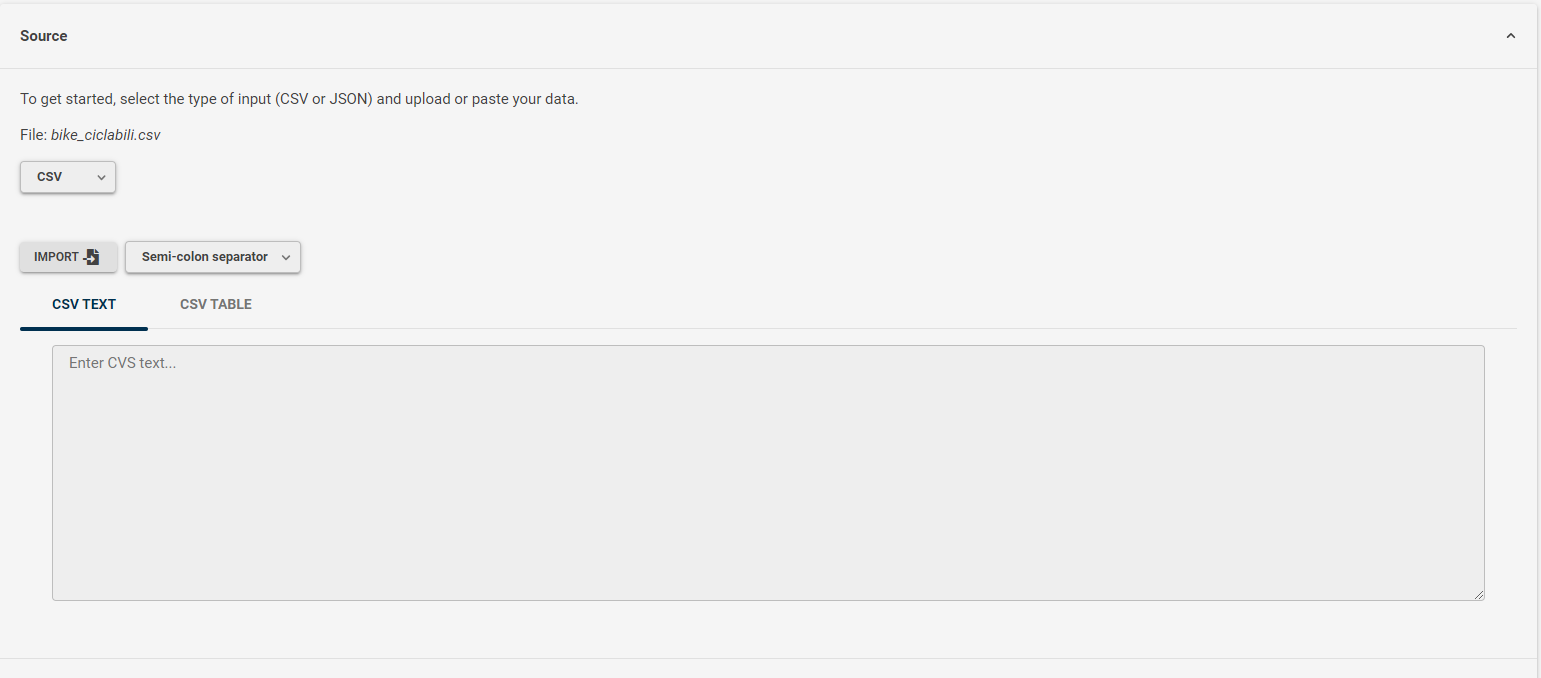
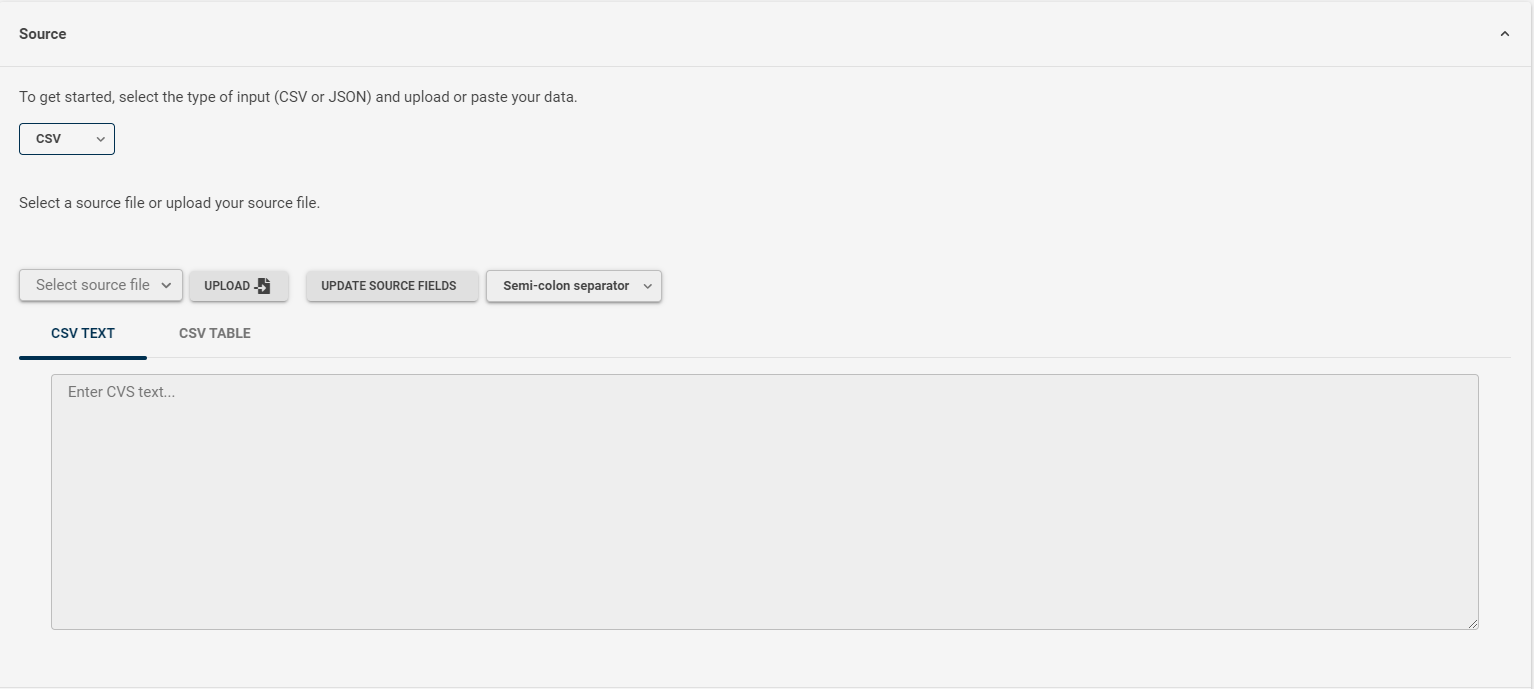
update documentation

diff --git a/frontend/src/app/model/appConfig.ts b/frontend/src/app/model/appConfig.ts
@@ -9,7 +9,7 @@ export interface AppConfig {
 
 export interface System {
   country: string;
-  sdkUrl: string;
+  //sdkUrl: string;
   checkConsentAtOperator: boolean;
   dmmGuiUrl: string;
   editorSchemaPath: string;

diff --git a/docs/usage.md b/docs/usage.md
@@ -7,15 +7,16 @@ The Data model mapper functionalities are explained in [Data model mapper Readme
 
 ## Service dashboard
 
-The section **Home** is where you can save or edit mapper settings.
+The section **Map editor** is where you can save or edit mapper settings.
 
-![](images/home.png)
+![](images/editor.png)
 
 It contains the following accordion 
 
 -   *Source*. Where you can set the source input
 -   *Mapper*. Where you can set the mapper options
 -   *Output*. Where you can see a preview of the mapped source
+-   *Config*. Where you can ser the transform config
 
 ## Source
 
@@ -23,7 +24,7 @@ In the **Source** accordion you can import a source file or edit it.
 
 ![](images/source-1.png)
 
-Firstly, select the inout type source
+Firstly, select the input type source
 
 ![](images/select-input-type.png)
 
@@ -31,8 +32,8 @@ For CSV input type, this it the source editor
 
 ![](images/empty-csv.png)
 
-You can either write your CSV data inside the textarea or import it by clicking the import button.
-If you want to import it, click **IMPORT** button and a dialog will appear
+You can either write your CSV data inside the textarea or import it by clicking the upload button.
+If you want to import it, click **UPLOAD** button and a dialog will appear
 
 ![](images/import.png)
 
@@ -100,11 +101,15 @@ Click on **Select path** and select the path where you want to start analyzing y
 
 ## Mapper
 
-In this section you can set the map record
+In this section you can set the output schema
 
-![](images/mapper.png)
+![](images/mapper_1.png)
 
-You can import a schema if you want set automatically the skeleton of the output. Click **IMPORT** and the steps are the same as mentioned before for source imput. Same if you want to set it manually, just click **Tree** and then select **View**
+and the mapper settings
+
+![](images/mapper_2.png)
+
+You can import a schema if you want set automatically the skeleton of the output. Click **UPLOAD** and the steps are the same as mentioned before for source imput. Same if you want to set it manually, just click **Tree** and then select **View**
 
 ![](images/map-options-2.png)
 
@@ -171,7 +176,7 @@ You can also import a schema from Data model mapper DB by clicking **Select Json
 
 or import the entire map record by clicking **IMPORT** on the top of the page
 
-![](images/home.png)
+![](images/editor.png)
 
 or by selecting it from the Data model mapper DB 
 
@@ -195,7 +200,7 @@ If you want to download map record, just click **EXPORT** button.
 
 If you want to save map record into Data model mapper Database , click **SAVE AS NEW**.
 
-![](images/home.png)
+![](images/editor_top.png)
 
 A save dialog will appear.
 
@@ -207,10 +212,11 @@ Chose a univoque Map ID and a name for the map record and then click save.
 
 If you want to update map record, click on **UPDATE**  button
 
-![](images/home-after-save.png)
+![](images/editor-after-save.png)
 
 and an update dialog will appear.
 
 ![](images/update-dialog.png)
 
-You can just update the name. After finished, click **EDIT** button.
+The Map ID is can't be touched, but you can edit the other fields. 
+After finished, click **UPDATE** button.

diff --git a/docs/index.md b/docs/index.md
@@ -62,13 +62,6 @@ Once the dist folder files are deployed and the server has started, modify the
 fields of `config.json` configuration file, located in `dist/assets/` folder.
 (These modifications can be made also in `frontend/src/assets/config.json` file before building the Application, as described in the section above).
 
-- **`system.sdkUrl`**: with **PUBLIC** (as the Dashboard will make HTTP calls from frontend running locally on browser) endpoint (**`host`:`port`/api/v2**) where (if any) Cape SDK Client is listening (see [CaPe](https://github.com/OPSILab/Cape))
-
-```  
-  "system": {
-    "sdkUrl": "http://localhost:8085/cape-service-sdk/api/v2",
-``` 
-
 - **`system.dmmGuiUrl`**: with endpoint (**`host`:`port`**) where the dashboard is running (depends on Web server configuration or if running with Docker on different published port).
 
 ```   
@@ -155,7 +148,6 @@ The provided `docker-compose.yml` file has also directives to mount the provided
 
 It contains also the mount to the `src/assets/config.json` file, which allows to configure the Dashboard as described in the [Deployment and Configuration](#deployment-and-configuration) section.
 
-**SOON.** Will be available configuration with environment variables to be set directly in `environment` section of `docker-compose.yml` file.
 
 ### Start it up with Docker Compose
 
